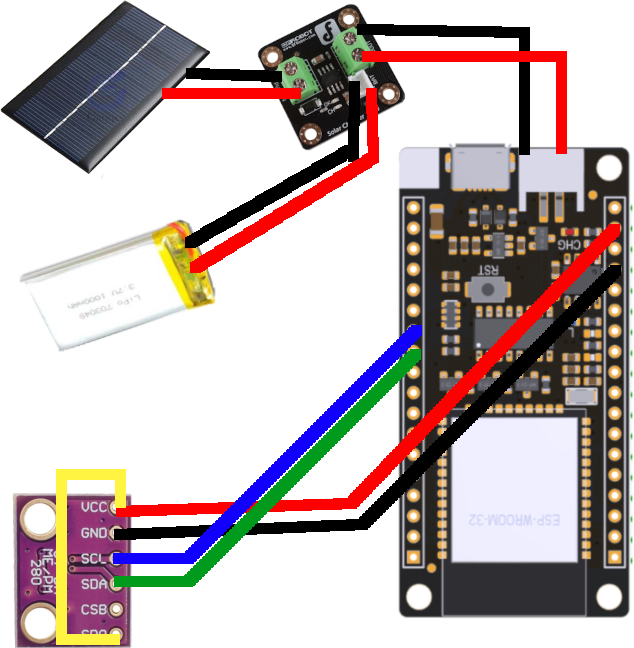
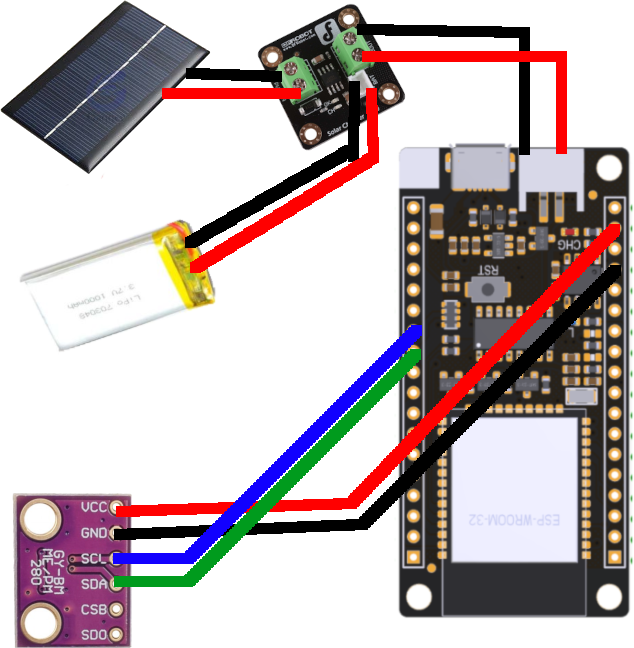
Switch to BME280 I2C address 0x76

Changed region(s): [[0.0899, 0.7099, 0.2098, 1.0]]

diff --git a/README.md b/README.md
@@ -42,7 +42,6 @@ and draws 9-12uAh under deep sleep.
 | BME280 GND                | Firebeetle GND            |
 | BME280 SCL                | Firebeetle SCL/IO22       |
 | BME280 SDA                | Firebeetle SDA/IO21       |
-| BME280 VCC                | BME280 SDO                |
 
 # Planned changes
 Monitor battery level
